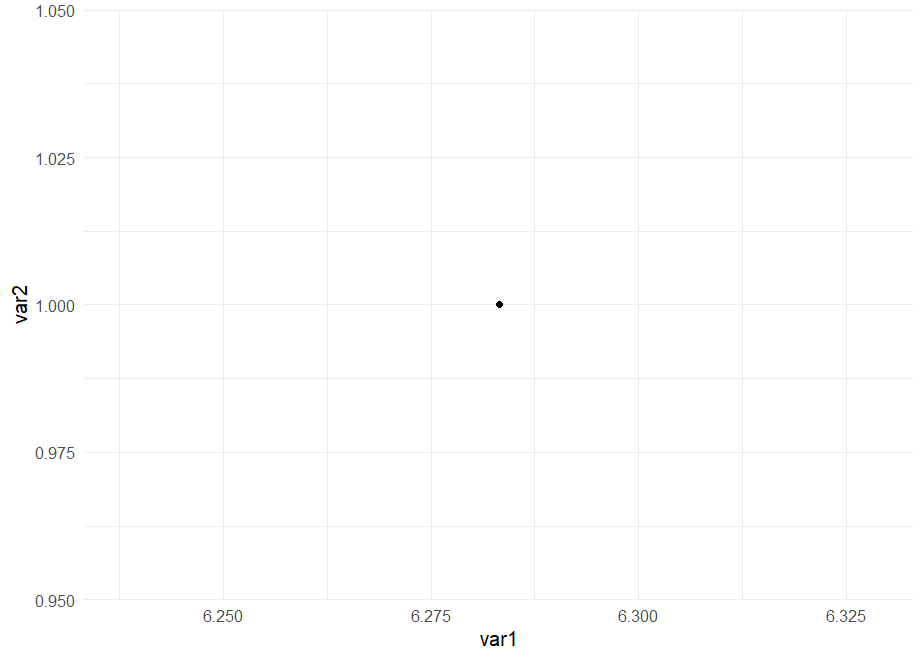
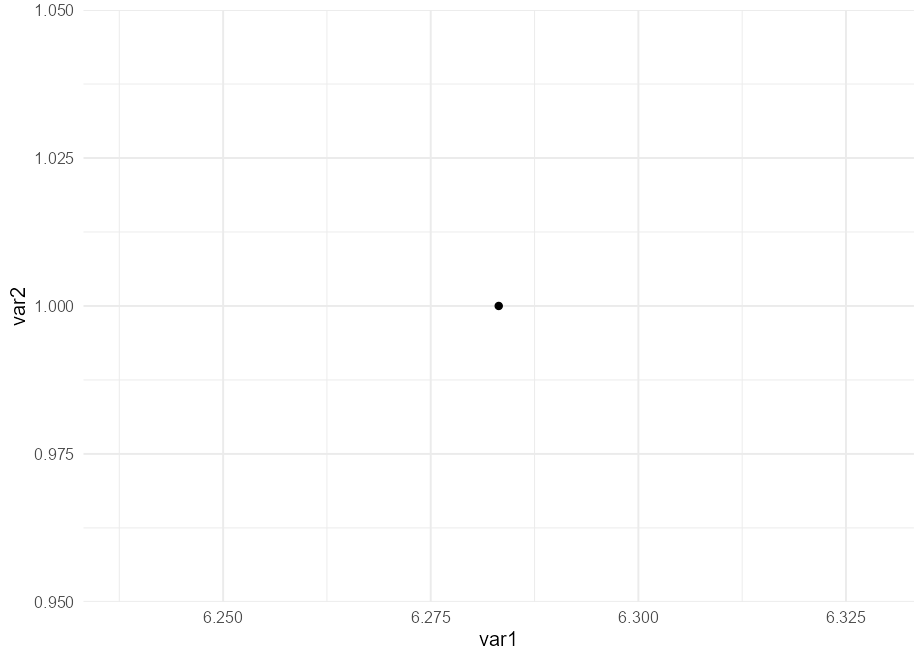
use the ragg package (Jesus Christ!)

diff --git a/README.md b/README.md
@@ -109,17 +109,18 @@ As you see from the last example, `"first"` and `"minimum"` overlap, and
 
 ### Facets
 
-Since we use the magic of “ggplot2”, the geom can also be used for
-facets, as you are used to. The following example is taken from [Stack
+Since we make use the magic of `ggplot2`, the geom can of course be used
+for faceting. The following example is taken from [Stack
 Overflow](https://stackoverflow.com/q/29375169/8583393)
 
 ``` r
 # https://stackoverflow.com/q/29375169/8583393
-# library(reshape2)
-library(ggplot2)
 
+# library(reshape2)
+# library(ggplot2)
 # me <- melt(economics, id = c("date"))
-ggplot(data = economics_long,
+
+ggplot(economics_long,
        aes(x = date, y = value)) + 
   geom_line() +
   facet_wrap(~variable, ncol = 1, scales = 'free_y') +
@@ -133,3 +134,11 @@ ggplot(data = economics_long,
 ## Why ggpointless?
 
 Fair question.
+
+## Related work
+
+The package [`ggpmisc`](https://exts.ggplot2.tidyverse.org/ggpmisc.html)
+provides the stat `stat_peaks`, which calls the `peaks()` function from
+the [`splus2r`](https://github.com/spkaluzny/splus2r) package. With
+these functions / stats you are able to highlight local minima and
+maxima too.
